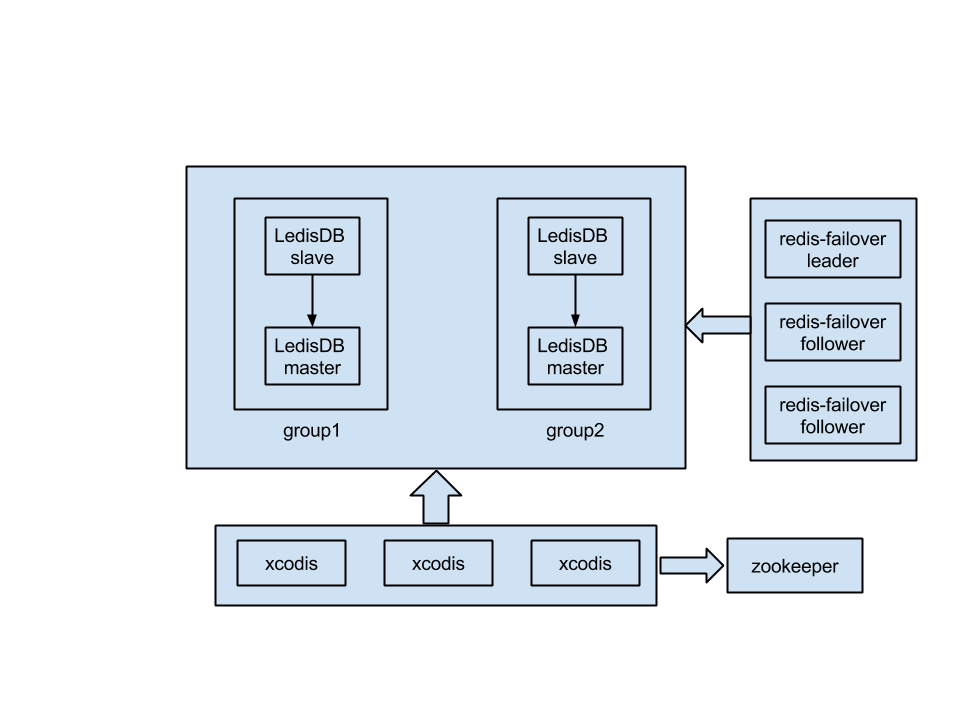
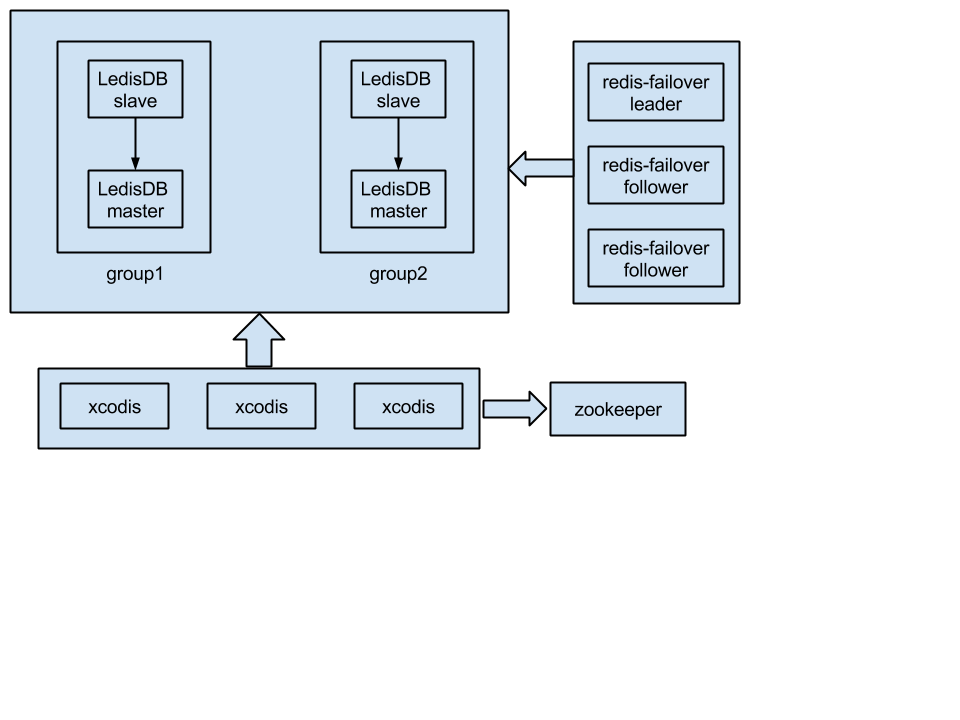
update

diff --git a/build-ha-distributed-kv-service.md b/build-ha-distributed-kv-service.md
@@ -98,7 +98,7 @@ redis-failover会存在单点问题，所以redis-failover自身需要支持clus
 
 ## 分布式集群
 
-我们通过使用LedisDB来解决了Redis单机数据容量问题，通过replication机制保证数据安全性，通过redis-failover用来进行failover处理，到现在为止，这套架构能很好地工作，但随着数据量的持续增大，单台机器最终无法存储所有数据了，我们不得不考虑通过cluster的方式来解决，也就是将数据放到不同的机器上面去。
+随着数据量的持续增大，单台机器最终无法存储所有数据，我们不得不考虑通过cluster的方式来解决，也就是将数据放到不同的机器上面去。
 
 要构建LedisDB的cluster，笔者考虑了如下三种方案，这里，我们不说啥hash取模或者consistency hash了，如果cluster真能通过这两种技术简单搞定，那还要这么费力干啥。
 
@@ -122,7 +122,13 @@ redis-failover会存在单点问题，所以redis-failover自身需要支持clus
     
 ## 架构
 
-![kv architecture](./asserts/kv-architecture.png)
+最终的架构如下。
+
+![kv architecture](https://raw.githubusercontent.com/siddontang/blog/master/asserts/kv-architecture.png)
+
+我们通过使用LedisDB来解决了Redis单机数据容量问题，通过replication机制保证数据安全性，通过redis-failover用来进行failover处理，最后通过xcodis进行集群管理。
+
+当前，这套架构并没有在生产环境中得到验证，但我们一直在内部不断测试，而且国外也有用户在帮助笔者验证这套架构，所以笔者对其还是很有信心的，希望能早日上线。如果有哪位童鞋也对这套架构感兴趣，想吃螃蟹的，笔者非常愿意提供支持。
 
 [1]: https://github.com/siddontang/ledisdb  "A Fast NoSQL"
 [2]: https://github.com/siddontang/xcodis  "A distributed Redis/LedisDB proxy"
